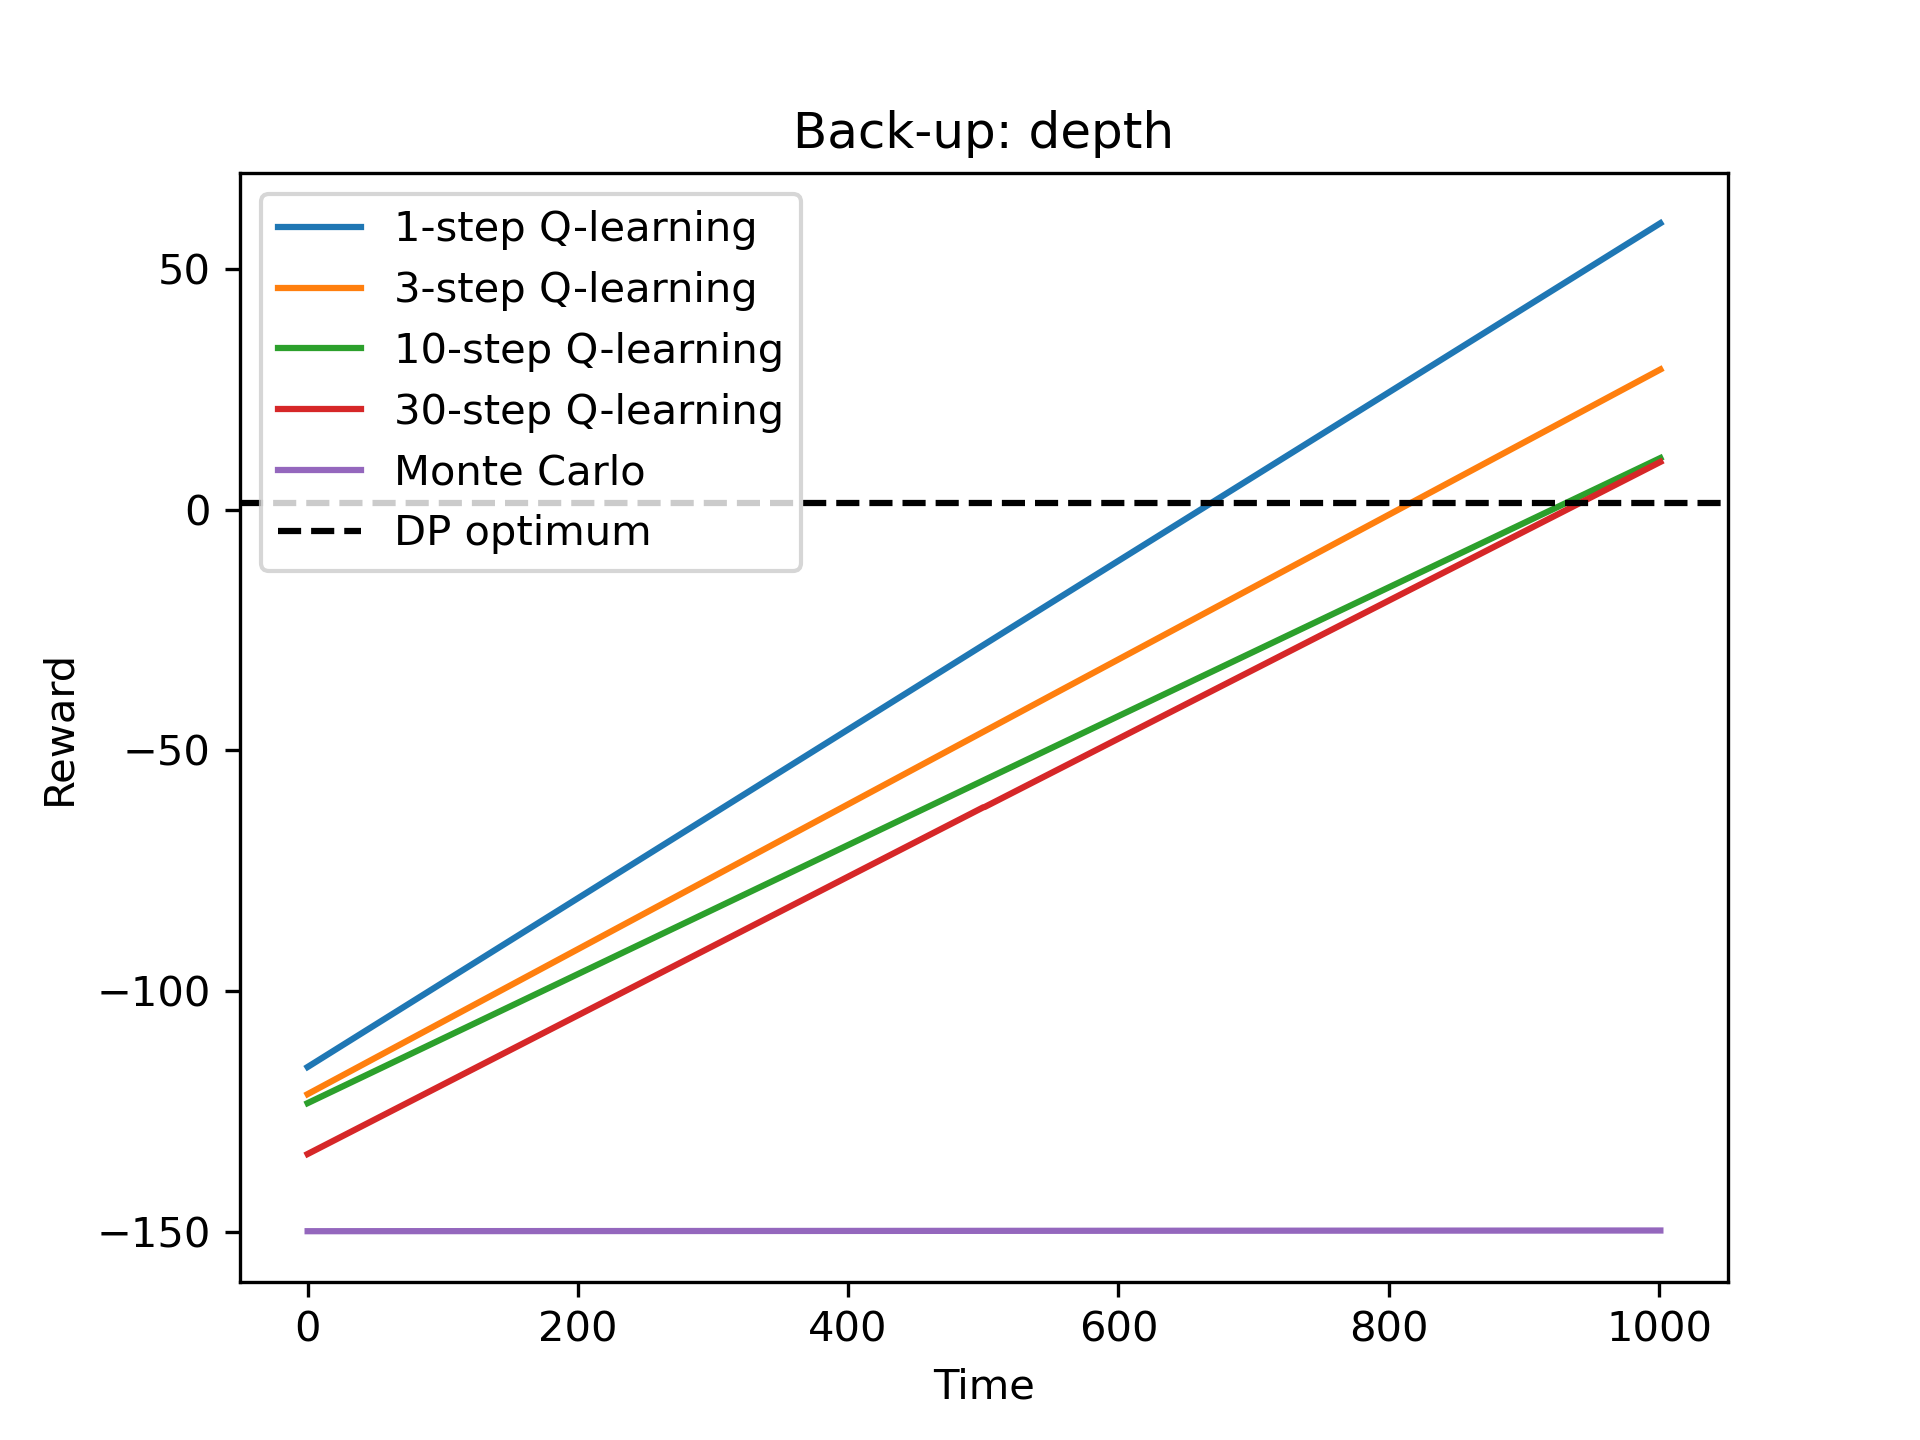
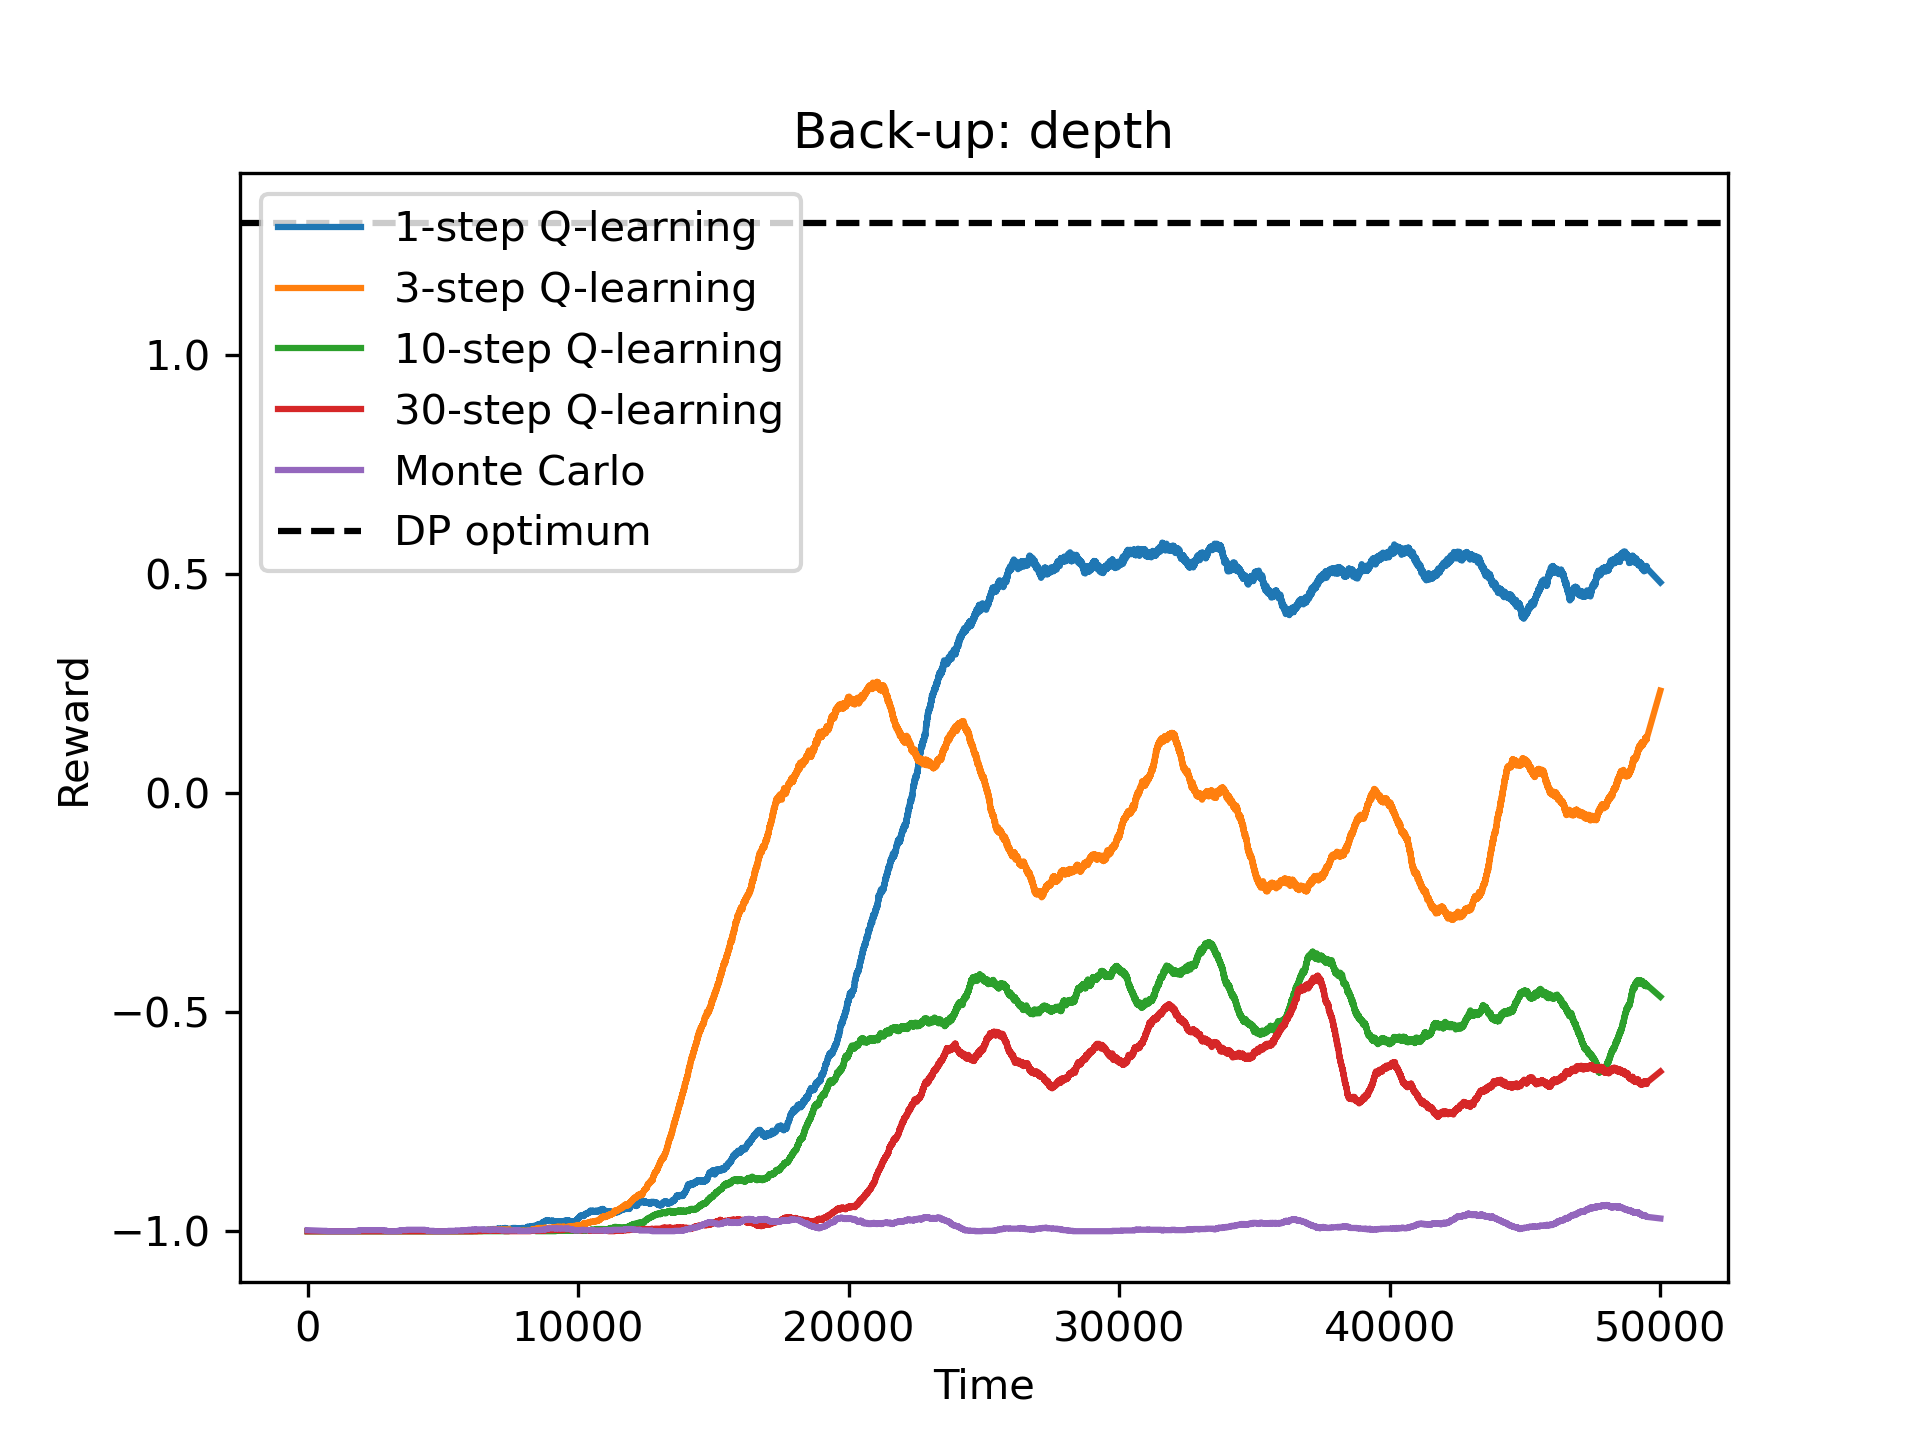
fixes in nstep and monte carlo

diff --git a/Experiment.py b/Experiment.py
@@ -23,6 +23,7 @@ def average_over_repetitions(backup, n_repetitions, n_timesteps, max_episode_len
     now = time.time()
 
     for rep in range(n_repetitions):  # Loop over repetitions
+        print('Repetition {}'.format(rep))
         if backup == 'q':
             rewards = q_learning(n_timesteps, learning_rate,
                                  gamma, policy, epsilon, temp, plot)
@@ -81,60 +82,60 @@ def experiment():
     optimal_average_reward_per_timestep = 1.3
 
     # Assignment 2: Effect of exploration
-    policy = 'egreedy'
-    # epsilon = [0.02,0.1,0.3] and softmax with temps = [0.01,0.1,1.0].
-    epsilons = [0.02, 0.1, 0.3]
-    learning_rate = 0.25
-    backup = 'q'
-    Plot = LearningCurvePlot(
-        title='Exploration: $\epsilon$-greedy versus softmax exploration')
-    for epsilon in epsilons:
-        learning_curve = average_over_repetitions(backup, n_repetitions, n_timesteps, max_episode_length, learning_rate,
-                                                  gamma, policy, epsilon, temp, smoothing_window, plot, n)
-        Plot.add_curve(
-            learning_curve, label=r'$\epsilon$-greedy, $\epsilon $ = {}'.format(epsilon))
-    policy = 'softmax'
-    temps = [0.01, 0.1, 1.0]  
-    for temp in temps:
-        learning_curve = average_over_repetitions(backup, n_repetitions, n_timesteps, max_episode_length, learning_rate,
-                                                  gamma, policy, epsilon, temp, smoothing_window, plot, n)
-        Plot.add_curve(
-            learning_curve, label=r'softmax, $ \tau $ = {}'.format(temp))
-    Plot.add_hline(optimal_average_reward_per_timestep, label="DP optimum")
-    Plot.save('exploration.png')
+    # policy = 'egreedy'
+    # # epsilon = [0.02,0.1,0.3] and softmax with temps = [0.01,0.1,1.0].
+    # epsilons = [0.02, 0.1, 0.3]
+    # learning_rate = 0.25
+    # backup = 'q'
+    # Plot = LearningCurvePlot(
+    #     title='Exploration: $\epsilon$-greedy versus softmax exploration')
+    # for epsilon in epsilons:
+    #     learning_curve = average_over_repetitions(backup, n_repetitions, n_timesteps, max_episode_length, learning_rate,
+    #                                               gamma, policy, epsilon, temp, smoothing_window, plot, n)
+    #     Plot.add_curve(
+    #         learning_curve, label=r'$\epsilon$-greedy, $\epsilon $ = {}'.format(epsilon))
+    # policy = 'softmax'
+    # temps = [0.01, 0.1, 1.0]  
+    # for temp in temps:
+    #     learning_curve = average_over_repetitions(backup, n_repetitions, n_timesteps, max_episode_length, learning_rate,
+    #                                               gamma, policy, epsilon, temp, smoothing_window, plot, n)
+    #     Plot.add_curve(
+    #         learning_curve, label=r'softmax, $ \tau $ = {}'.format(temp))
+    # Plot.add_hline(optimal_average_reward_per_timestep, label="DP optimum")
+    # Plot.save('exploration.png')
 
     # # Assignment 3: Q-learning versus SARSA
-    policy = 'egreedy'
-    epsilon = 0.1  # set epsilon back to original value
-    learning_rates = [0.02, 0.1, 0.4]
-    backups = ['q', 'sarsa']
-    Plot = LearningCurvePlot(title='Back-up: on-policy versus off-policy')
-    for backup in backups:
-        for learning_rate in learning_rates:
-            learning_curve = average_over_repetitions(backup, n_repetitions, n_timesteps, max_episode_length, learning_rate,
-                                                      gamma, policy, epsilon, temp, smoothing_window, plot, n)
-            Plot.add_curve(learning_curve, label=r'{}, $\alpha$ = {} '.format(
-                backup_labels[backup], learning_rate))
-    Plot.add_hline(optimal_average_reward_per_timestep, label="DP optimum")
-    Plot.save('on_off_policy.png')
+    # policy = 'egreedy'
+    # epsilon = 0.1  # set epsilon back to original value
+    # learning_rates = [0.02, 0.1, 0.4]
+    # backups = ['q', 'sarsa']
+    # Plot = LearningCurvePlot(title='Back-up: on-policy versus off-policy')
+    # for backup in backups:
+    #     for learning_rate in learning_rates:
+    #         learning_curve = average_over_repetitions(backup, n_repetitions, n_timesteps, max_episode_length, learning_rate,
+    #                                                   gamma, policy, epsilon, temp, smoothing_window, plot, n)
+    #         Plot.add_curve(learning_curve, label=r'{}, $\alpha$ = {} '.format(
+    #             backup_labels[backup], learning_rate))
+    # Plot.add_hline(optimal_average_reward_per_timestep, label="DP optimum")
+    # Plot.save('on_off_policy.png')
 
     # ##### Assignment 4: Back-up depth
-    policy = 'egreedy'
-    epsilon = 0.1  # set epsilon back to original value
-    learning_rate = 0.25
-    backup = 'nstep'
-    ns = [1, 3, 10, 30]
-    Plot = LearningCurvePlot(title='Back-up: depth')
-    for n in ns:
-        learning_curve = average_over_repetitions(backup, n_repetitions, n_timesteps, max_episode_length, learning_rate,
-                                                  gamma, policy, epsilon, temp, smoothing_window, plot, n)
-        Plot.add_curve(learning_curve, label=r'{}-step Q-learning'.format(n))
-    backup = 'mc'
-    learning_curve = average_over_repetitions(backup, n_repetitions, n_timesteps, max_episode_length, learning_rate,
-                                              gamma, policy, epsilon, temp, smoothing_window, plot, n)
-    Plot.add_curve(learning_curve, label='Monte Carlo')
-    Plot.add_hline(optimal_average_reward_per_timestep, label="DP optimum")
-    Plot.save('depth.png')
+    # policy = 'egreedy'
+    # epsilon = 0.1  # set epsilon back to original value
+    # learning_rate = 0.25
+    # backup = 'nstep'
+    # ns = [1, 3, 10, 30]
+    # Plot = LearningCurvePlot(title='Back-up: depth')
+    # for n in ns:
+    #     learning_curve = average_over_repetitions(backup, n_repetitions, n_timesteps, max_episode_length, learning_rate,
+    #                                               gamma, policy, epsilon, temp, smoothing_window, plot, n)
+    #     Plot.add_curve(learning_curve, label=r'{}-step Q-learning'.format(n))
+    # backup = 'mc'
+    # learning_curve = average_over_repetitions(backup, n_repetitions, n_timesteps, max_episode_length, learning_rate,
+    #                                           gamma, policy, epsilon, temp, smoothing_window, plot, n)
+    # Plot.add_curve(learning_curve, label='Monte Carlo')
+    # Plot.add_hline(optimal_average_reward_per_timestep, label="DP optimum")
+    # Plot.save('depth.png')
 
 
 if __name__ == '__main__':

diff --git a/DynamicProgramming.py b/DynamicProgramming.py
@@ -48,6 +48,7 @@ def Q_value_iteration(env, gamma=1.0, threshold=0.001):
 
     # TO DO: IMPLEMENT Q-VALUE ITERATION HERE
 
+    count = 0
     while True:
 
         max_error = 0  # Reset max error
@@ -60,11 +61,22 @@ def Q_value_iteration(env, gamma=1.0, threshold=0.001):
                 QIagent.update(s, a, env.p_sas, env.r_sas)
 
                 max_error = max(max_error, abs(x - QIagent.Q_sa[s, a]))
-
-        # print("Max error is getting lower and lower: ", max_error)
+        if count == 0:
+            env.render(Q_sa=QIagent.Q_sa,
+                        plot_optimal_policy=True, step_pause=0.001)
+            env.saveFig('step_' + str(count))
+        if count == 8:
+            env.render(Q_sa=QIagent.Q_sa,
+                        plot_optimal_policy=True, step_pause=0.001)
+            env.saveFig('step_' + str(count))
+        count += 1
         if max_error < threshold:
             break
 
+    env.render(Q_sa=QIagent.Q_sa,
+                plot_optimal_policy=True, step_pause=0.001)
+    env.saveFig('step_' + str(count))
+    print(count)
     return QIagent
 
 
@@ -72,7 +84,7 @@ def experiment():
     gamma = 1.0
     threshold = 0.001
     env = StochasticWindyGridworld(initialize_model=True)
-    # env.render()
+    env.render()
     QIagent = Q_value_iteration(env, gamma, threshold)
 
     # View optimal policy
@@ -84,7 +96,7 @@ def experiment():
     s = env.reset()
 
     rewards = []
-    
+
     step = 0
     while not done:
         a = QIagent.select_action(s)
@@ -93,13 +105,12 @@ def experiment():
         step += 1
         rewards.append(r)
         s = s_next
-        
-        if step == 1:
-            env.render(Q_sa=QIagent.Q_sa, plot_optimal_policy=True, step_pause=0.2)
-            
-    
+        # env.render(Q_sa=QIagent.Q_sa,
+        #            plot_optimal_policy=True, step_pause=0.001)
+
+
     mean_reward_per_timestep = np.sum(rewards) / len(rewards)
-    
+
     # print("Mean reward per timestep under optimal policy: {}".format(
     #     mean_reward_per_timestep))
 
@@ -107,11 +118,12 @@ def experiment():
 
 
 if __name__ == '__main__':
-    mean_rewards_per_run = []
-    for i in range(50):
-        mean_reward_per_timestep = experiment()
-        mean_rewards_per_run.append(mean_reward_per_timestep)
+    experiment()
+    # mean_rewards_per_run = []
+    # for i in range(50):
+    #     mean_reward_per_timestep = experiment()
+    #     mean_rewards_per_run.append(mean_reward_per_timestep)
 
-    mean_rewards_per_run = np.sum(
-        mean_rewards_per_run) / len(mean_rewards_per_run)
-    print(mean_rewards_per_run)
+    # mean_rewards_per_run = np.sum(
+    #     mean_rewards_per_run) / len(mean_rewards_per_run)
+    # print(mean_rewards_per_run)

diff --git a/MonteCarlo.py b/MonteCarlo.py
@@ -47,11 +47,11 @@ class MonteCarloAgent:
         actions is a list of actions observed in the episode, of length T_ep
         rewards is a list of rewards observed in the episode, of length T_ep
         done indicates whether the final s in states is was a terminal state '''
-        Tep = len(states) - 1 # 101
-        G = np.zeros(Tep + 1) # 100
-        
+        Tep = len(states) - 1  # 101
+        G = np.zeros(Tep + 1)  # 100
+
         for t in range(Tep - 1, 0, -1):
-            
+
             # print(states[t])
             G[t] = self.gamma*G[t + 1] + rewards[t]
 
@@ -67,30 +67,33 @@ def monte_carlo(n_timesteps, max_episode_length, learning_rate, gamma,
 
     env = StochasticWindyGridworld(initialize_model=False)
     pi = MonteCarloAgent(env.n_states, env.n_actions, learning_rate, gamma)
-    
-    rewards = np.zeros(n_timesteps)
 
-    for _ in range(n_timesteps):
+    rewards = []
+    index = 0
+    while index < n_timesteps:
         rewards_per_episode = []
         states = []
         actions = []
-        
+
         s = env.reset()
         states.append(s)
-
+        
         for t in range(max_episode_length):
-
+            index += 1
             a = pi.select_action(s, policy, epsilon, temp)
             actions.append(a)
 
             s_next, r, done = env.step(a)
             rewards_per_episode.append(r)
-            rewards[_] += r
+            # rewards[_] += r
+            rewards.append(r)
             states.append(s_next)
-            if done:
-                s = env.reset()
+            if done or index >= n_timesteps:
+                break
 
             s = s_next
+
+        # rewards[_] /= t + 1
 
         pi.update(states, actions, rewards_per_episode)
 
@@ -119,7 +122,6 @@ def test():
                           policy, epsilon, temp, plot)
     print("Obtained rewards: {}".format(rewards[49999]))
 
+
 if __name__ == '__main__':
     test()
-
-

diff --git a/Nstep.py b/Nstep.py
@@ -74,8 +74,10 @@ def n_step_Q(n_timesteps, max_episode_length, learning_rate, gamma,
     pi = NstepQLearningAgent(
         env.n_states, env.n_actions, learning_rate, gamma, n)
 
-    rewards = np.zeros(n_timesteps)
-    for _ in range(n_timesteps):
+    rewards = []
+    index = 0
+    while index < n_timesteps:
+        # for _ in range(n_timesteps):
         rewards_per_episode = []
         states = []
         actions = []
@@ -83,20 +85,18 @@ def n_step_Q(n_timesteps, max_episode_length, learning_rate, gamma,
         s = env.reset()
         states.append(s)
         for t in range(max_episode_length):
-
+            index += 1
             a = pi.select_action(s, policy, epsilon, temp)
             actions.append(a)
 
             s_next, r, done = env.step(a)
             states.append(s_next)
             rewards_per_episode.append(r)
-            rewards[_] += r
+            rewards.append(r)
             s = s_next
-            if done:
+            if done or index >= n_timesteps:
                 break
 
-
-        
         # if plot:
         #     # Plot the Q-value estimates during n-step Q-learning execution
         #     env.render(Q_sa=pi.Q_sa, plot_optimal_policy=True,

diff --git a/Environment.py b/Environment.py
@@ -51,6 +51,9 @@ class StochasticWindyGridworld:
         # Set agent to the start location
         self.reset() 
 
+    def saveFig(self, filename):
+        plt.savefig(filename)
+    
     def reset(self):
         ''' set the agent back to the start location '''
         self.agent_location = np.array(self.start_location)

diff --git a/Q_learning.py b/Q_learning.py
@@ -65,7 +65,7 @@ def q_learning(n_timesteps, learning_rate, gamma, policy='egreedy', epsilon=None
 
         a = pi.select_action(s, policy, epsilon, temp)
         s_next, r, done = env.step(a)
-        epsilon = epsilon * 0.95
+        # epsilon = epsilon * 0.95
         pi.update(s, a, r, s_next, done)
         s = s_next
 
